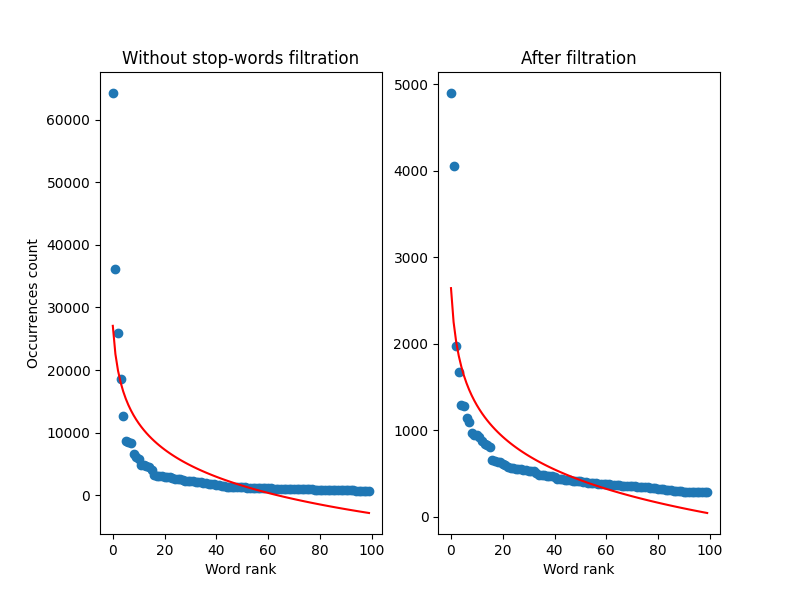
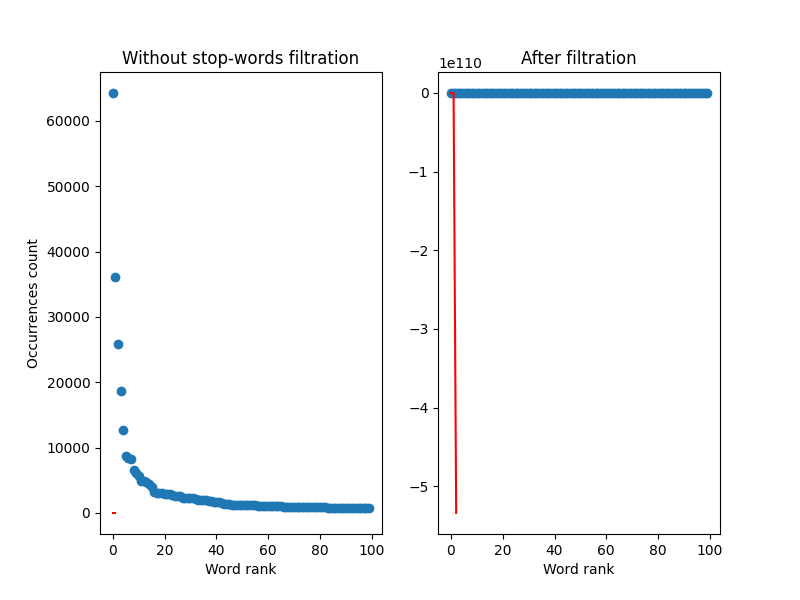
menzerath only for unique words

diff --git a/ivi_parser/menzerath.py b/ivi_parser/menzerath.py
@@ -53,13 +53,27 @@ def syllabs_proc(syllabs, filtered=False):
 all_texts = pd.read_csv("./all.csv", encoding="utf-8")["text"]
 syllabs = []
 filtered_syllabs = []
+words = set([])
+filtered_words = set([])
 for text in tqdm(all_texts):
     for sent in nltk.sent_tokenize(text, language='russian'):
         for w in tokenizer.tokenize(sent):
-            arr = syllab_tok.inserted(w.lower(), hyphen="|").split("|")
-            syllabs.append(arr)
+            if w == "томсамомсайтепрокинопрокоторыйстолькописалиосенью":
+                print(text)
+            words.add(w)
             if w not in stop_words:
-                filtered_syllabs.append(arr)
+                filtered_words.add(w)
+
+for w in tqdm(words):
+    arr = syllab_tok.inserted(w.lower(), hyphen="|").split("|")
+    syllabs.append(arr)
+
+for w in tqdm(filtered_words):
+    arr = syllab_tok.inserted(w.lower(), hyphen="|").split("|")
+    if len(arr) > 15:
+        # longest word "томсамомсайтепрокинопрокоторыйстолькописалиосенью"
+        print(w)
+    filtered_syllabs.append(arr)
 
 syllabs_proc(syllabs)
 syllabs_proc(filtered_syllabs, True)
